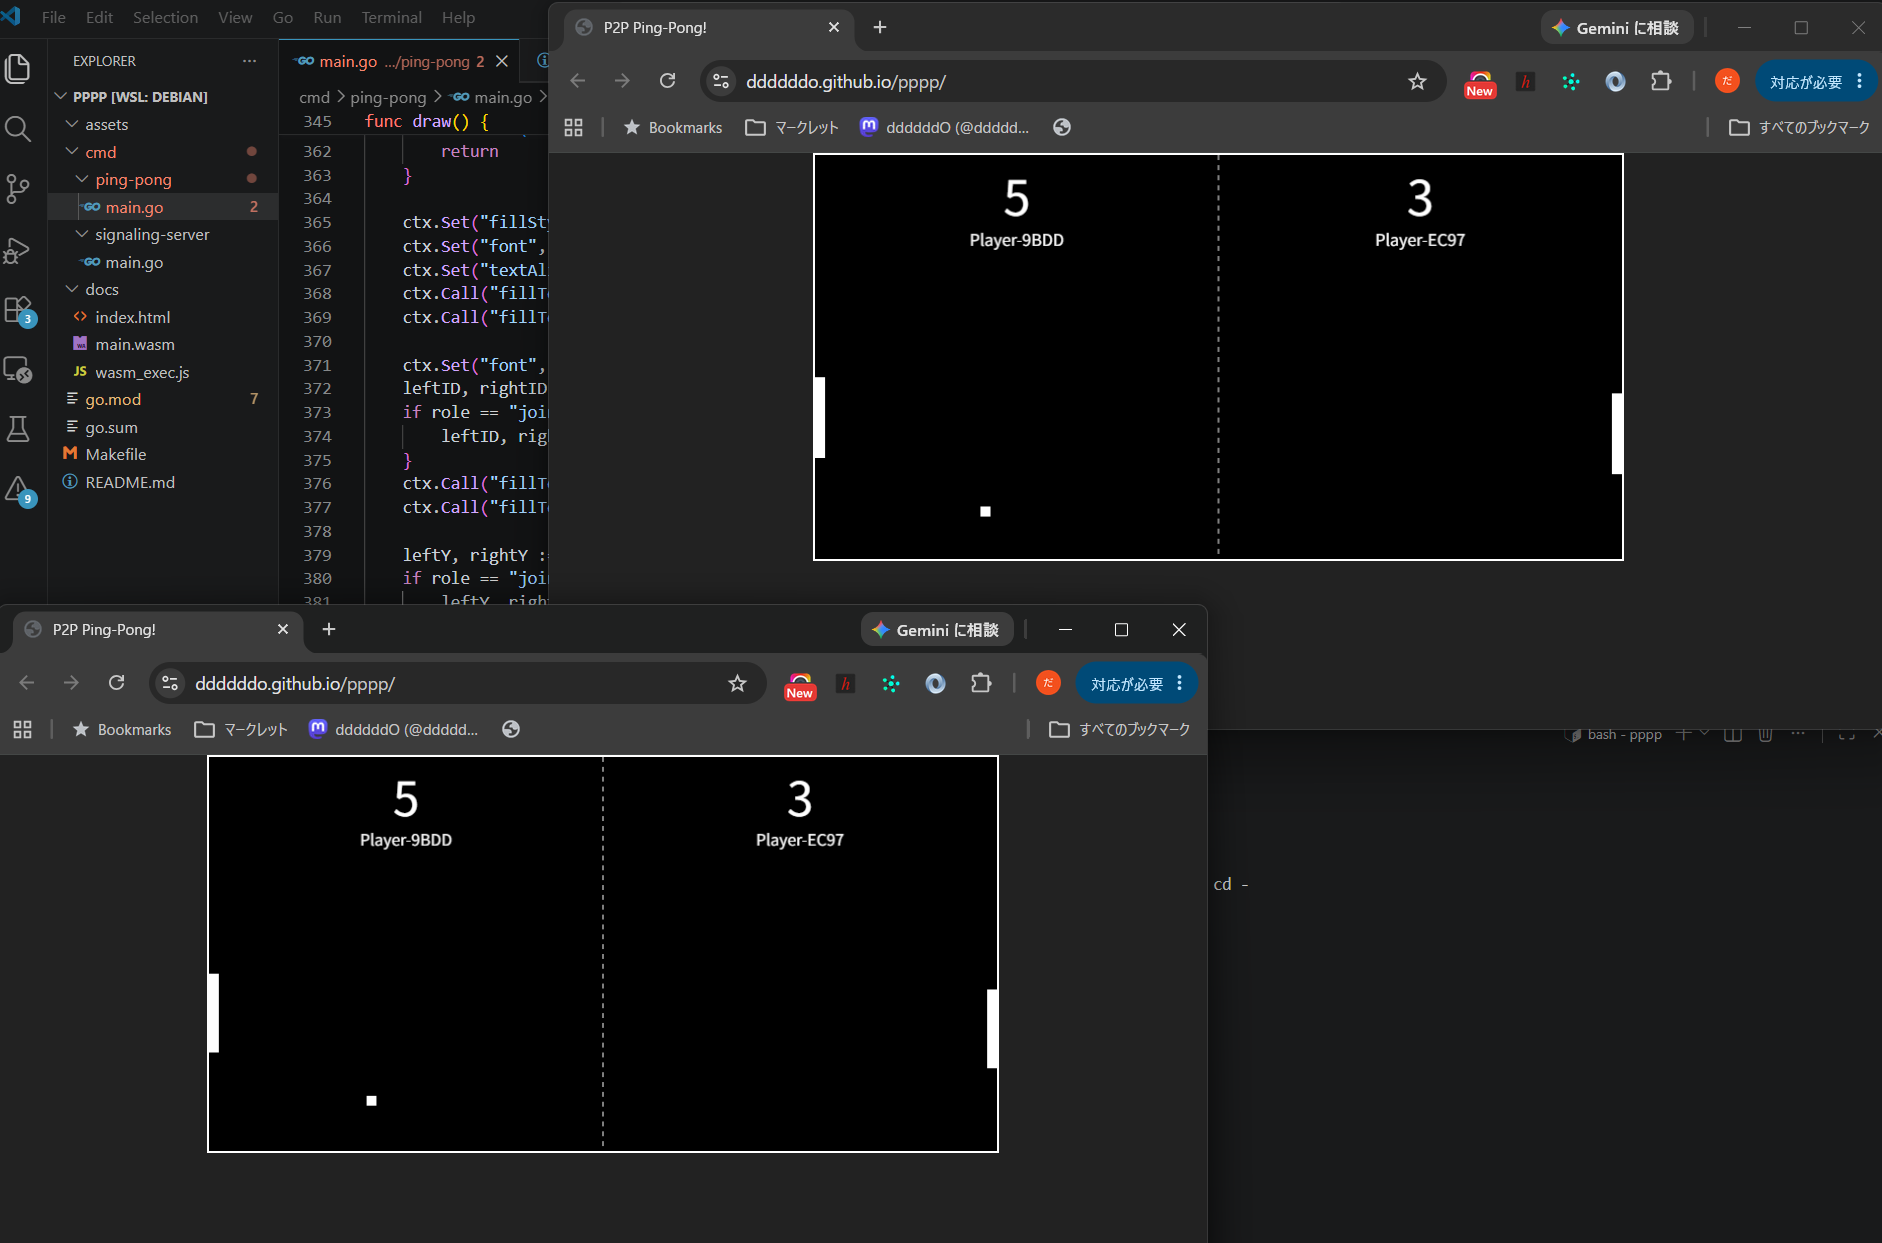
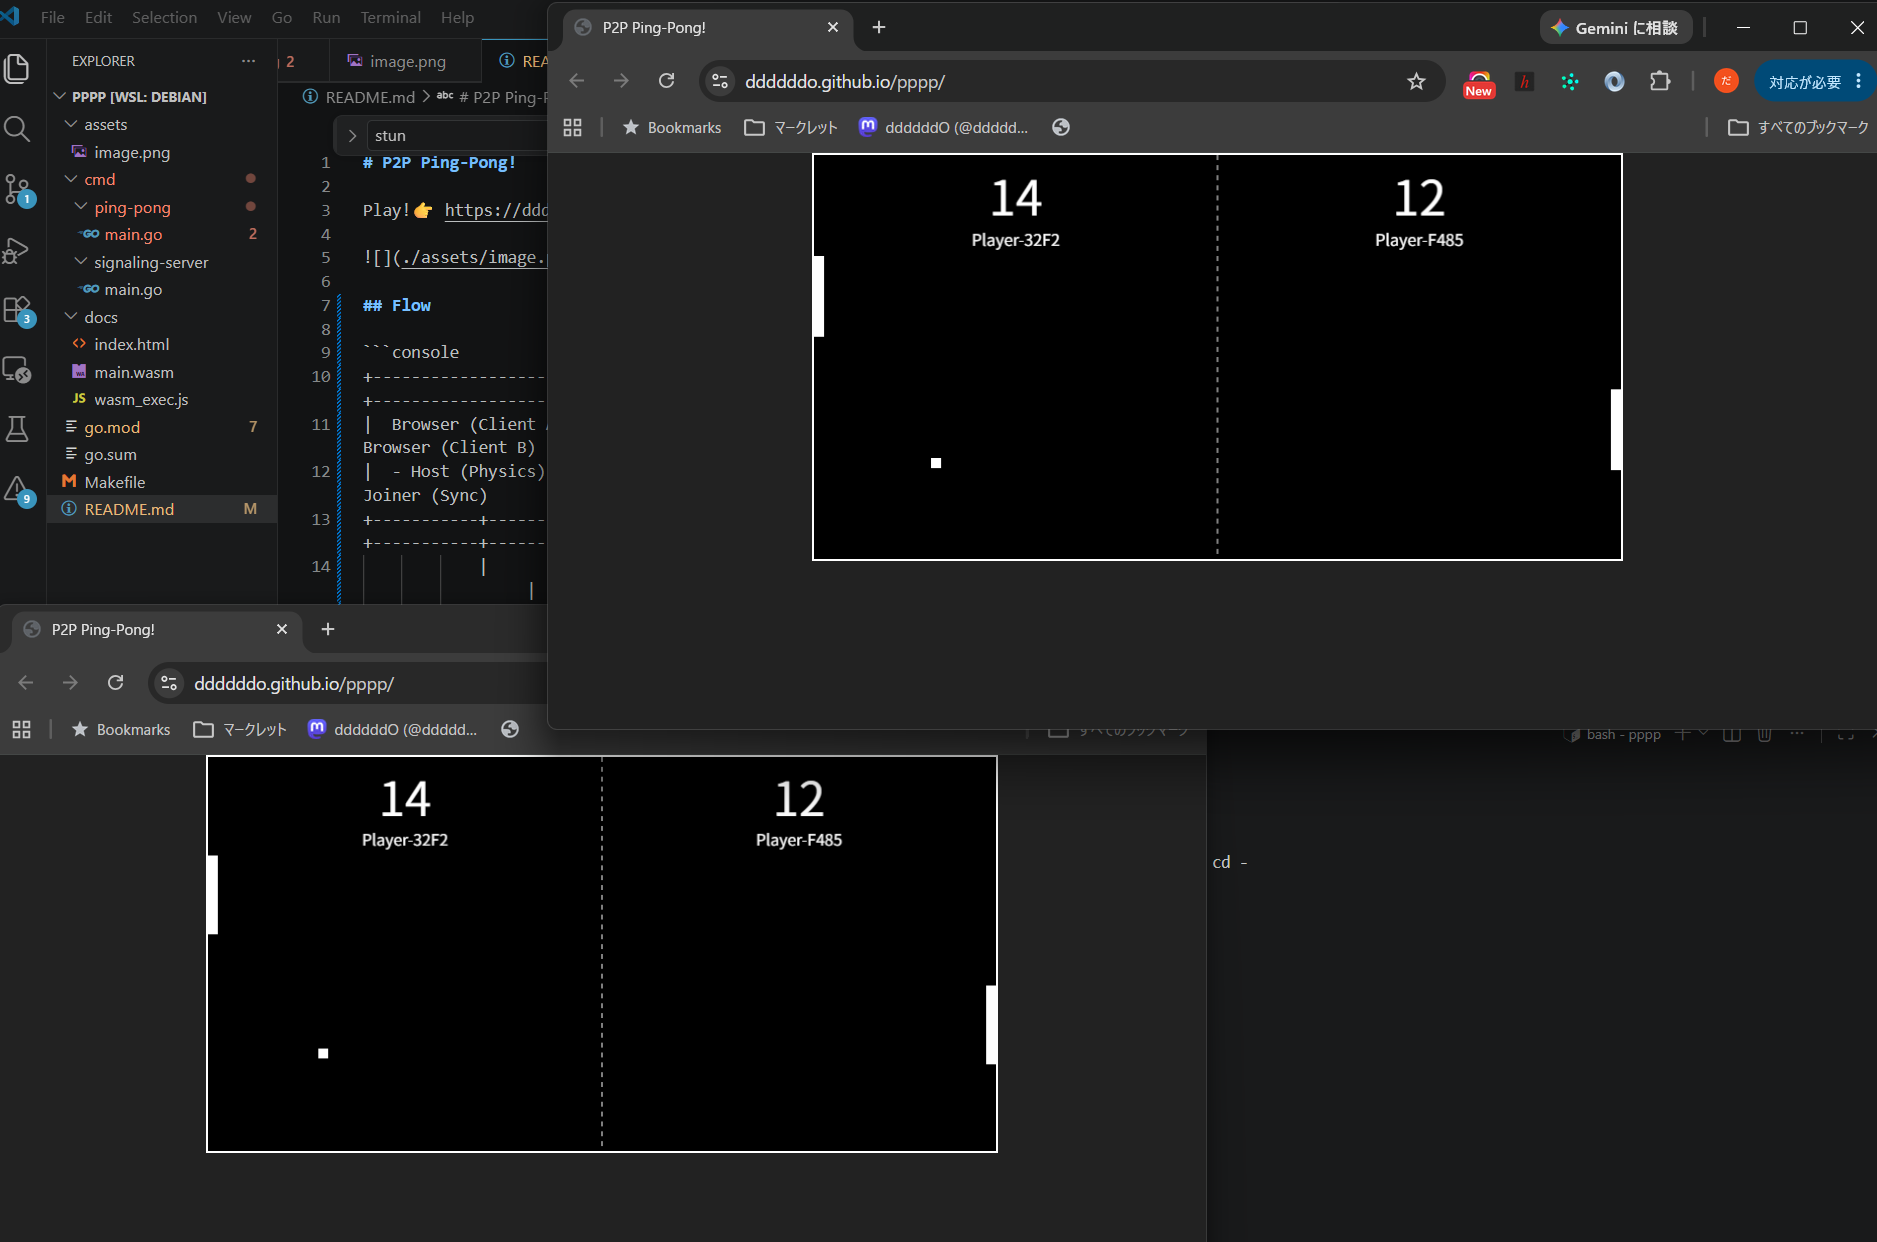
up

diff --git a/README.md b/README.md
@@ -2,6 +2,41 @@
 
 Play!👉 https://ddddddo.github.io/pppp/
 
+If two people connect, they can play a game of table tennis!
+
 ![](./assets/image.png)
 
-## 
+## Flow
+
+```console
++-----------------------+                    +-----------------------+
+|  Browser (Client A)   |                    |  Browser (Client B)   |
+|  - Host (Physics)     |                    |  - Joiner (Sync)      |
++-----------+-----------+                    +-----------+-----------+
+            |                                            |
+            |             1. WebSocket (wss://)          |
+            +-----------> [ Signaling Server ] <---------+
+            |              (Render.com)                  |
+            |                                            |
+            |             2. STUN Query (UDP)            |
+            +-----------> [   STUN Server    ] <---------+
+            |              (Google STUN)                 |
+            |                                            |
+            |             3. WebRTC DataChannel (P2P)    |
+            +============================================+
+```
+
+1. ブラウザ ↔ STUN サーバー
+
+    各ブラウザが直接 Google の STUN サーバーに「自分の外側から見た IP アドレスとポート番号は何？」と問い合わせて自分の接続情報（ICE Candidate）を取得します。
+
+1. ブラウザ ↔ Signaling Server ↔ ブラウザ
+
+    取得した接続情報を、Signaling Server をバケツリレーのように経由して相手のブラウザへ渡します。
+
+1. ブラウザ ↔ ブラウザ (P2P)
+
+    相手の IP/ポート番号が分かったら、ブラウザ同士が直接 WebRTC で繋がります。
+
+## Note
+- https://dashboard.render.com/project
